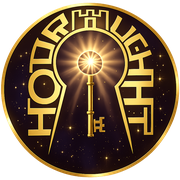
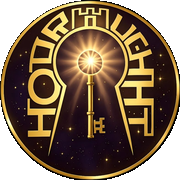
Add files via upload

diff --git a/app.html b/app.html
@@ -37,7 +37,7 @@ input,textarea,select{font-family:var(--body)}
   position:fixed;inset:0;background:var(--bg);z-index:9999;
   display:flex;flex-direction:column;align-items:center;justify-content:center;gap:16px;
 }
-.ld-logo{width:64px;height:64px;border-radius:14px;overflow:hidden}
+.ld-logo{width:64px;height:64px;border-radius:50%;overflow:hidden}
 .ld-logo img{width:100%;height:100%;object-fit:cover}
 .ld-brand{font-family:var(--serif);font-size:1.2rem;font-weight:300;letter-spacing:.1em;color:var(--text)}
 .ld-dots{display:flex;gap:6px}
@@ -64,7 +64,7 @@ input,textarea,select{font-family:var(--body)}
   box-shadow:0 8px 40px rgba(45,36,24,.1);position:relative;
 }
 .lc-head{text-align:center;margin-bottom:28px}
-.lc-icon{width:52px;height:52px;margin:0 auto 12px;border-radius:12px;overflow:hidden}
+.lc-icon{width:52px;height:52px;margin:0 auto 12px;border-radius:50%;overflow:hidden}
 .lc-icon img{width:100%;height:100%;object-fit:cover}
 .lc-title{font-family:var(--serif);font-size:1.3rem;font-weight:300;letter-spacing:.06em;margin-bottom:4px}
 .lc-sub{font-size:.8rem;color:var(--light)}
@@ -103,7 +103,7 @@ input,textarea,select{font-family:var(--body)}
 }
 .tb-menu{display:none;background:none;border:none;font-size:1.2rem;color:var(--mid);padding:4px}
 .tb-logo{display:flex;align-items:center;gap:10px;text-decoration:none}
-.tb-logo-img{width:28px;height:28px;border-radius:6px;overflow:hidden;flex-shrink:0}
+.tb-logo-img{width:28px;height:28px;border-radius:50%;overflow:hidden;flex-shrink:0}
 .tb-logo-img img{width:100%;height:100%;object-fit:cover}
 .tb-brand{font-family:var(--serif);font-size:.95rem;font-weight:300;letter-spacing:.06em;color:var(--text)}
 .tb-sep{color:var(--faint);margin:0 4px}
